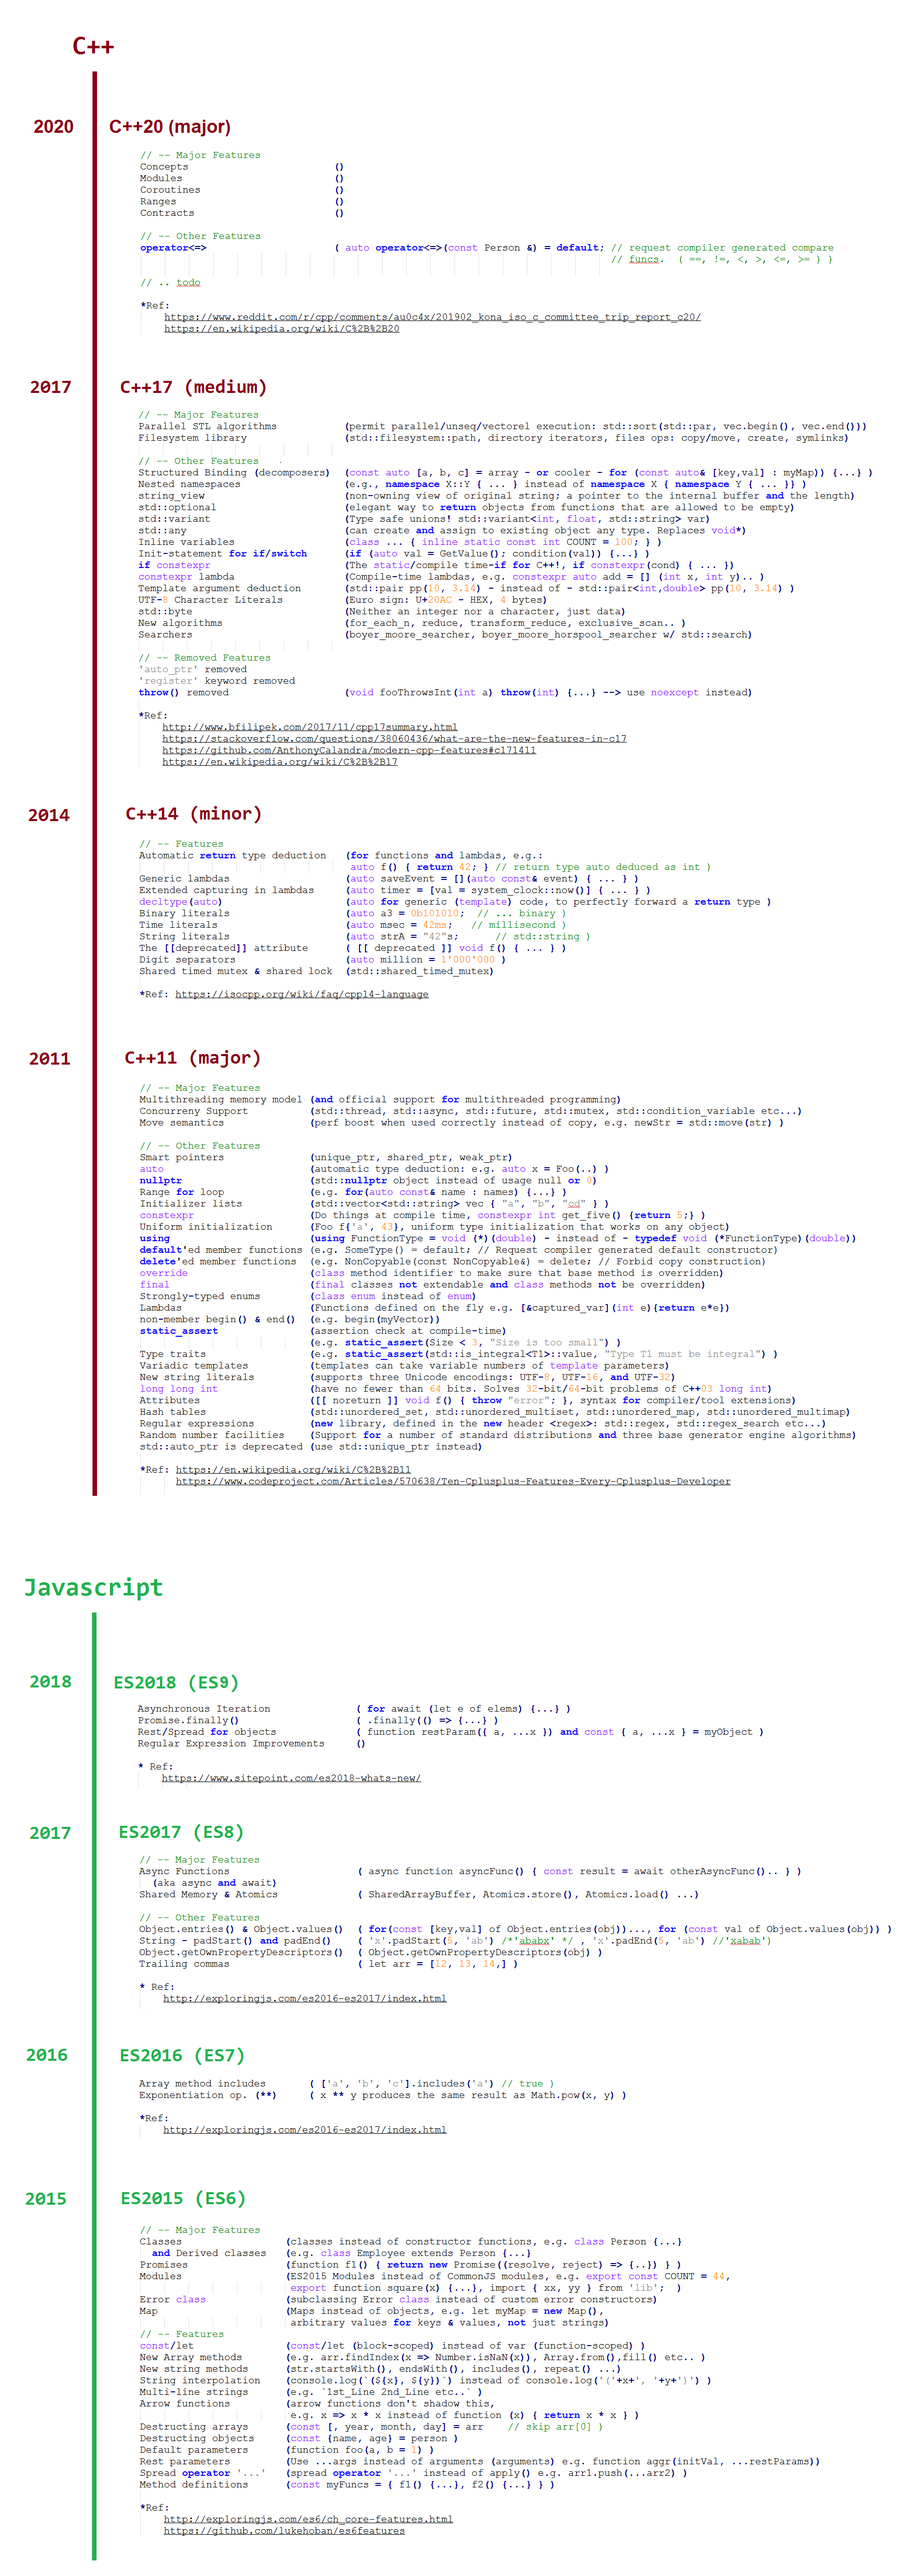
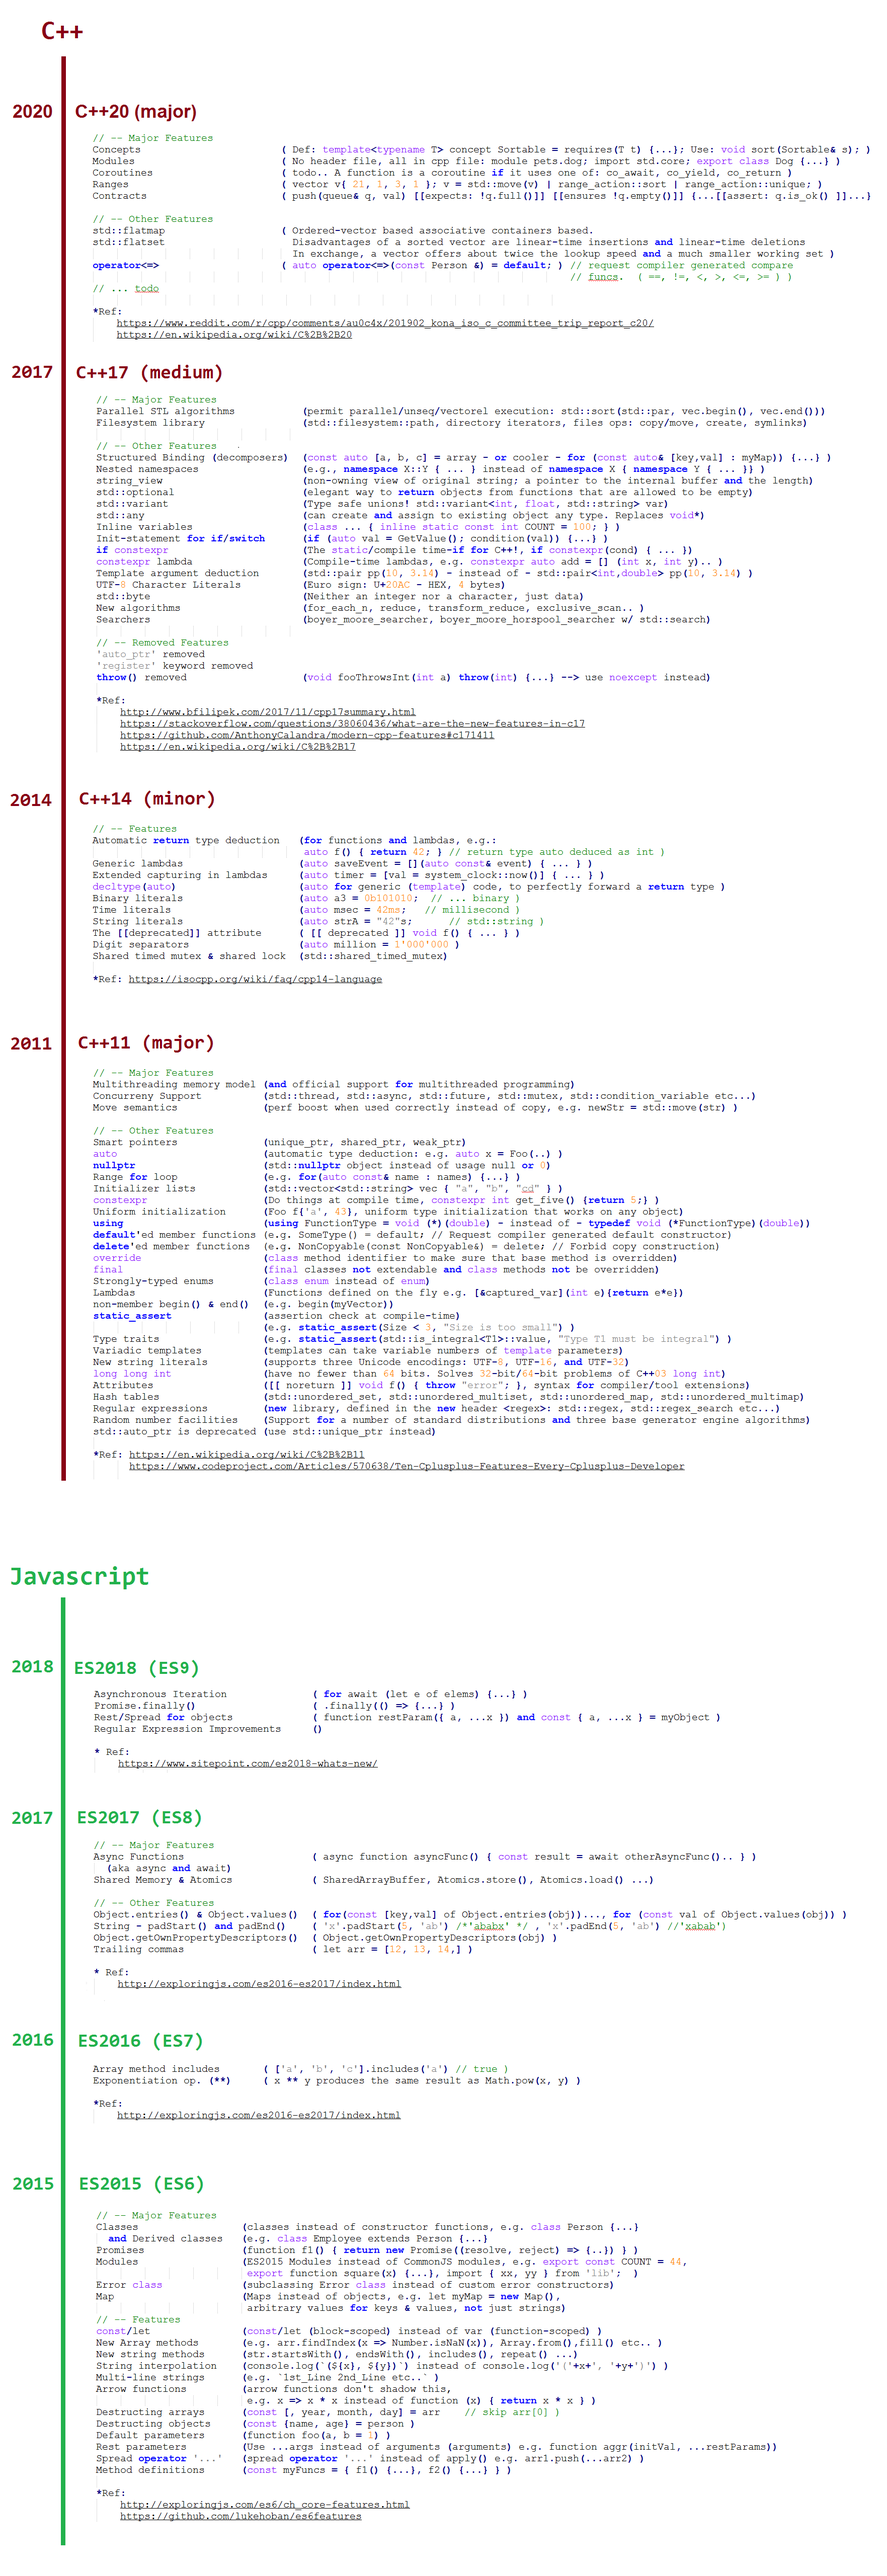
Adding C++20 features details

diff --git a/lang_table_notes.h b/lang_table_notes.h
@@ -97,18 +97,20 @@ Paradigm:        Multi-paradigm: procedural, functional, object-oriented, generi
 
 C++20 (major)
 	// -- Major Features
-	Concepts						()
-	Modules							()
-	Coroutines						()
-	Ranges							()
-	Contracts						()
+	Concepts						( Def: template<typename T> concept Sortable = requires(T t) {...}; Use: void sort(Sortable& s); )
+	Modules							( No header file, all in cpp file: module pets.dog; import std.core; export class Dog {...} )
+	Coroutines						( todo.. A function is a coroutine if it uses one of: co_await, co_yield, co_return )
+	Ranges							( vector v{ 21, 1, 3, 1 }; v = std::move(v) | range_action::sort | range_action::unique; )
+	Contracts						( push(queue& q, val) [[expects: !q.full()]] [[ensures !q.empty()]]	{...[[assert: q.is_ok() ]]...} )
 	
 	// -- Other Features
-	operator<=>						( auto operator<=>(const Person &) = default; // request compiler generated compare 
-																				  // funcs.  ( ==, !=, <, >, <=, >= ) )
-
-	// .. todo
-
+	std::flatmap					( Ordered-vector based associative containers based. 
+	std::flatset					  Disadvantages of a sorted vector are linear-time insertions and linear-time deletions     
+									  In exchange, a vector offers about twice the lookup speed and a much smaller working set )
+	operator<=>						( auto operator<=>(const Person &) = default; ) // request compiler generated compare 
+																				    // funcs.  ( ==, !=, <, >, <=, >= ) )
+	// ... todo 																				
+																					
 	*Ref:
 		https://www.reddit.com/r/cpp/comments/au0c4x/201902_kona_iso_c_committee_trip_report_c20/
 		https://en.wikipedia.org/wiki/C%2B%2B20
